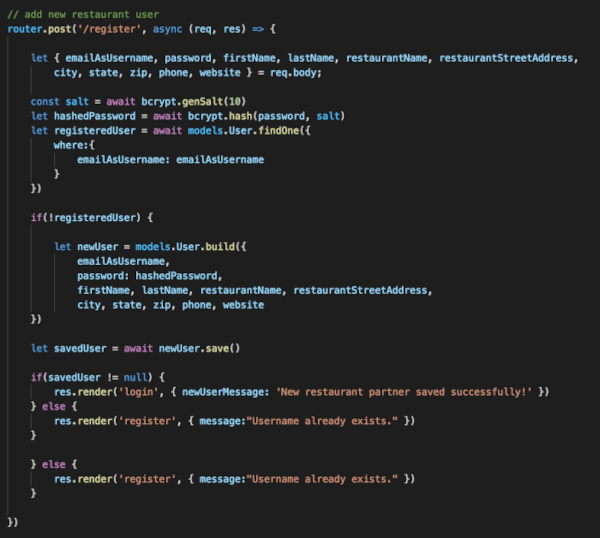
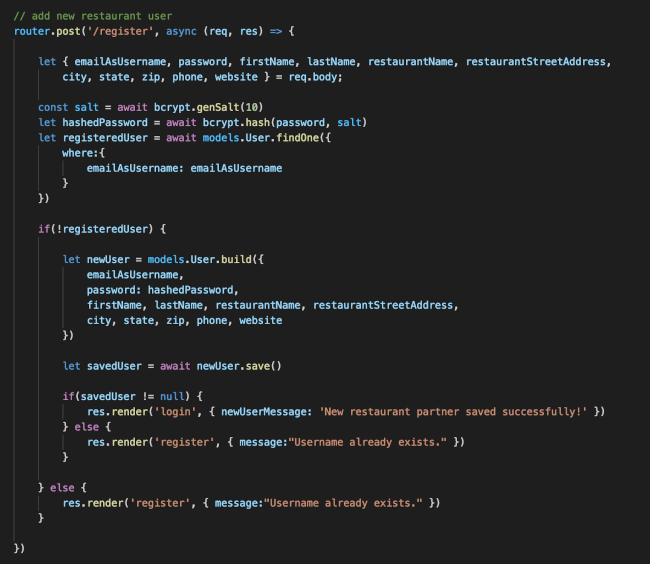
more readme tweaking

diff --git a/routes/index.js b/routes/index.js
@@ -76,15 +76,15 @@ router.post('/register', async (req, res) => {
             password: hashedPassword,
             firstName, lastName, restaurantName, restaurantStreetAddress,
             city, state, zip, phone, website
-    })
+        })
 
-    let savedUser = await newUser.save()
+        let savedUser = await newUser.save()
 
-    if(savedUser != null) {
-        res.render('login', { newUserMessage: 'New restaurant partner saved successfully!' })
-    } else {
-        res.render('register', { message:"Username already exists." })
-    }
+        if(savedUser != null) {
+            res.render('login', { newUserMessage: 'New restaurant partner saved successfully!' })
+        } else {
+            res.render('register', { message:"Username already exists." })
+        }
 
     } else {
         res.render('register', { message:"Username already exists." })

diff --git a/README.md b/README.md
@@ -52,5 +52,3 @@ Node.js, Express.js, Javascript, Mustache, HTML/CSS, Heroku, ElephantSQL
 
 
 * **Code Snippet for New Restaurant Registration:**
-
-![](https://github.com/nicolealdurien/wasteNOT/blob/master/static/img/snippet.png?raw=true)
